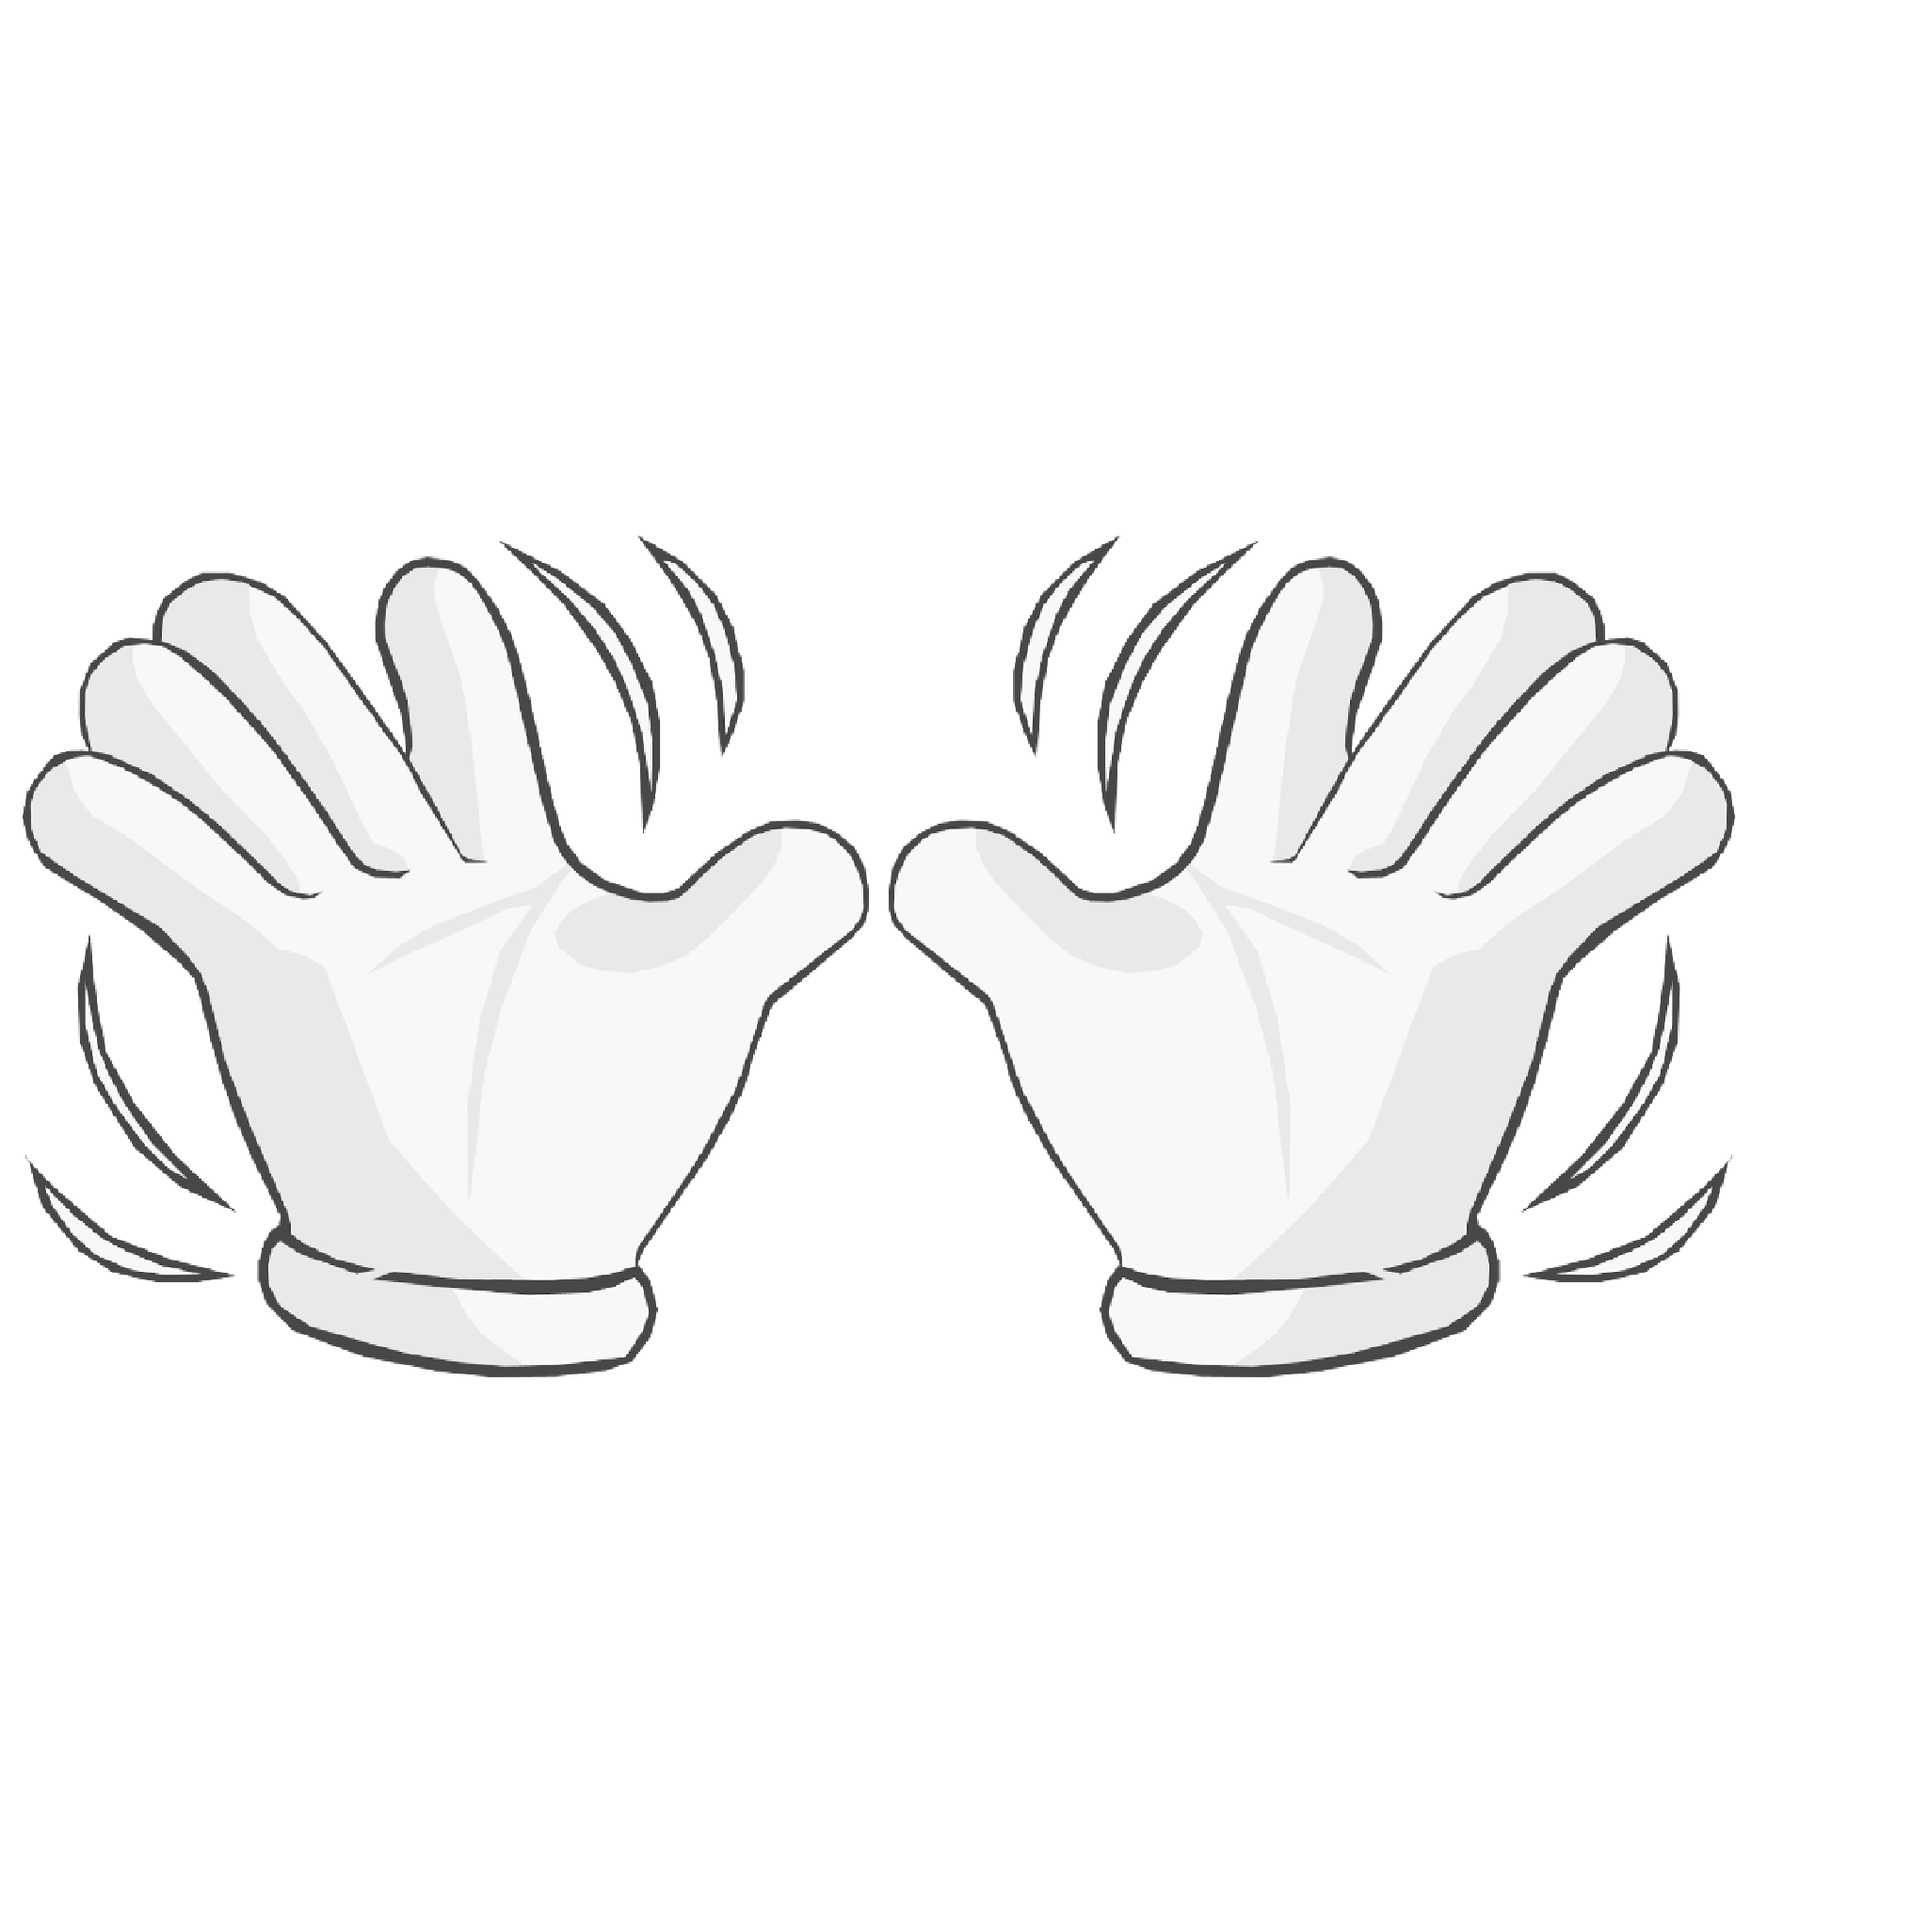
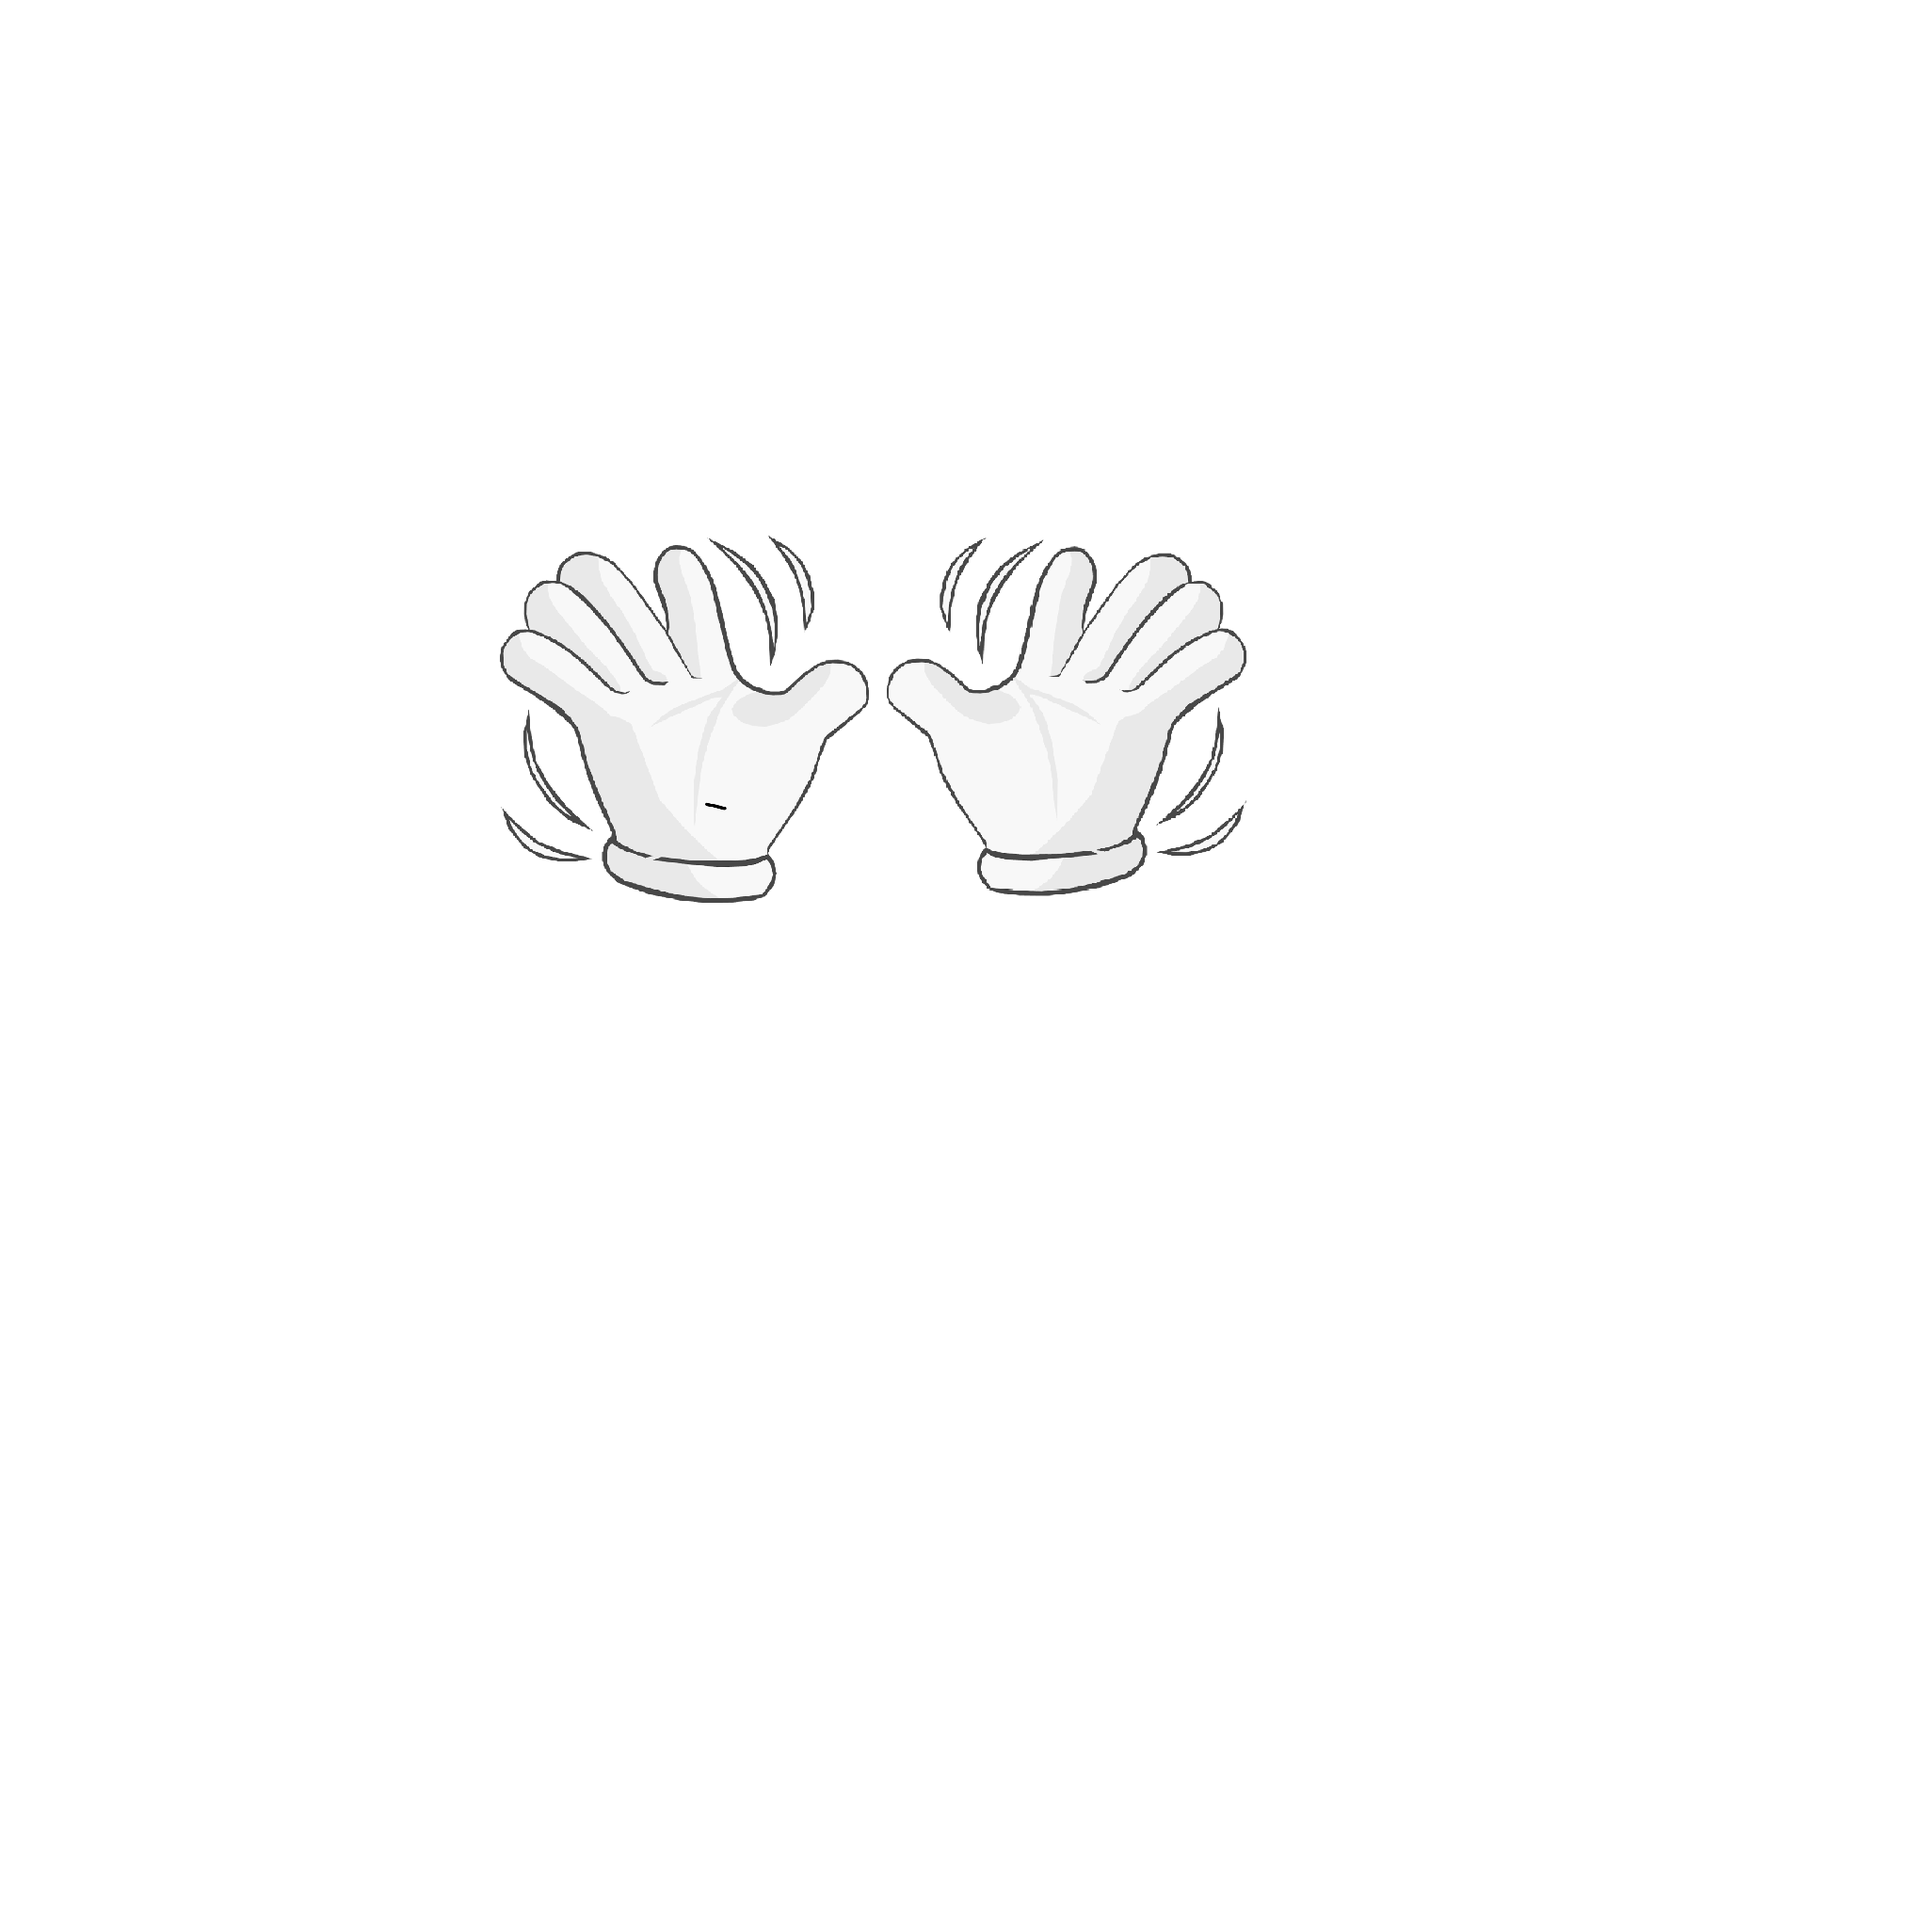
New Commit

diff --git a/index.html b/index.html
@@ -5,21 +5,14 @@
     <link rel="stylesheet" type="text/css" href="type.css"
 </head>
 <body>
-    <img id="background" width="220" height="277" src="wp1936452 field.jpg" alt="The Background">
-    <canvas id="myCanvas" width="240" height="297" style="border:1px solid grey;"></canvas>
+    <img id="Field"  src="Field.jpg" alt="Soccer Field">
     <div class="balls"></div>
     <div class="danger-line"></div>
     <div class="hands"></div>
-    </div>
+    
 
-    <script src="Javascript.js">
-        window.onload = function() {
-        const canvas = document.getElementById("myCanvas");
-        const ctx = canvas.getContext("2d");
-        const img = document.getElementById("background");
-        ctx.drawImage(img, 10, 10);
-      };
-      </script>
+    <scrip src="Javascript.js"></script>
+      
     
 </body>
 </html>

diff --git a/type.css b/type.css
@@ -4,15 +4,16 @@
 }
 
 body{
-    width: 10px;
-    height: 10px;
-    display: flex;
+    width: 100%;
+    height: 100vh;
     justify-content: center;
     align-items: center;
+    
+    
 }
 .img{
-    width: 10px;
-    height: 25px;
+    width: 700px;
+    height: 500px;
     position: relative;
 }
 
